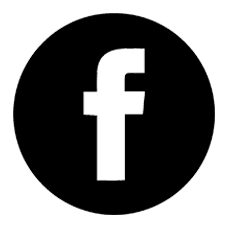
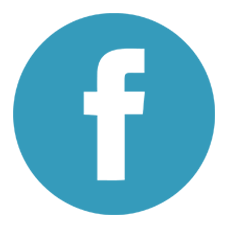
no message

diff --git a/index.html b/index.html
@@ -49,10 +49,10 @@
     <section id="contac">
       <div class="retraso-1 animated fadeInDown">
       <h2 class="titulo">Contáctame</h2><br><br><br>
-      <h3>Me puedes escribir al email echev7@gmail.com</h3>
-      <p>Tambien me puedes encontrar en las siguientes redes sociales</p><br>
-      <a target="_blank" href="https://www.facebook.com/ERodriiiGuez"><img width="50" height="50" src="images/social/fb.png"></a>
-      <a target="_blank" href="https://twitter.com/EulisesRdz"><img width="50" height="50" src="images/social/tw.png"></a>
+      <h3 class="h3">Me puedes escribir al email echev7@gmail.com</h3>
+      <p class="txt">Tambien me puedes encontrar en las siguientes redes sociales</p><br>
+      <a target="_blank" href="https://www.facebook.com/ERodriiiGuez"><img width="70" height="70" src="images/social/fb.png" onMouseOver="this.src='images/social/fb-h.png';" onMouseOut="this.src='images/social/fb.png';"></a>
+      <a target="_blank" href="https://twitter.com/EulisesRdz"><img width="70" height="70" src="images/social/tw.png" onMouseOver="this.src='images/social/tw-h.png';" onMouseOut="this.src='images/social/tw.png';"></a>
       </div>
     </section>
     <script src="js/fastclick.js"></script>

diff --git a/css/styles.css b/css/styles.css
@@ -142,6 +142,14 @@ h2{
   height: 500px;
   padding: 130px 0 0;
 }
+.h3{
+  color: #FFFFFF;
+  font-size: 2em;
+}
+.txt{
+  color: #FFFFFF;
+  font-size: 1.2em;
+}
 @media screen and (max-width: 800px) {
 .logo{
   text-align: center;
